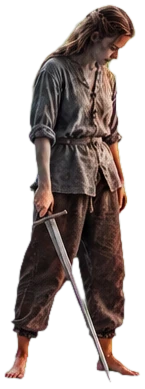
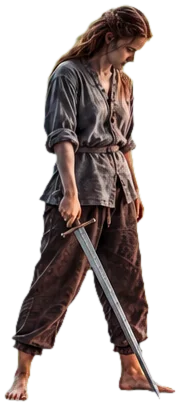
Polimento pós-auditoria

diff --git a/capitulo2.js b/capitulo2.js
@@ -22,7 +22,7 @@ const antes = () => window.AQV_ANTES || {};
 window.LIVRO_UI = {
   pt: { parte: 'Parte', prox: 'Próxima', fim: 'Encerrar o capítulo', voltar: '← Voltar', ouvir: 'Ouvir Laura', cena: '▶ Ver a cena', oque: 'O que Laura faz?', decida: 'Decida', decidir: 'Decidir', escolheu: 'Você escolheu:', resp: 'Responder a', silencio: 'ficar em silêncio', silencioR: 'Silêncio', momento: 'Momento de jogo',
     mg: { olhar: 'Olhar sem se mexer', duelo: 'Ler Simon', esconderijo: 'Prender o coração' },
-    dica: { olhar: 'Gideon está medindo e Laura não pode virar a cabeça. Ela tem quatro olhares antes de ele terminar.', duelo: 'Simon avisa com o corpo antes de cada golpe. Leia, desvie, e só toque quando ele errar.', esconderijo: 'O guarda vem pela aleia. O coração de Laura bate alto demais. Acompanhe cada batida para acalmá-lo, e prenda o fôlego quando a luz chegar.', preceT: 'Toque e segure. Solte quando quiser parar de rezar.', preceK: 'Segure o botão ou a barra de espaço. Solte quando quiser parar de rezar.' },
+    dica: { olhar: 'Gideon está medindo e Laura não pode virar a cabeça. Passe os olhos pela sala: ela tem quatro olhares antes de ele terminar.', duelo: 'Simon avisa com o corpo antes de cada golpe. Leia, desvie, e só toque quando ele errar.', esconderijo: 'O guarda vem pela aleia. O coração de Laura bate alto demais. Acompanhe cada batida para acalmá-lo, e prenda o fôlego quando a luz chegar.', preceT: 'Toque e segure. Solte quando quiser parar de rezar.', preceK: 'Segure o botão ou a barra de espaço. Solte quando quiser parar de rezar.' },
     olhares: (n) => (n === 1 ? 'resta 1 olhar' : `restam ${n} olhares`), deslize: 'Deslize para ver a sala inteira',
     coverEye: 'As Quatro Vontades · Livro I · Capítulo II', coverLede: 'Leia. Decida por Laura. E, no laranjal, lute.', coverGo: 'Entrar na Casa D’Orrose', coverCont: 'Continuar de onde parei', coverRestart: 'Começar do início', coverHint: 'Use fones. Avance com o botão, com a seta → ou deslizando para o lado.',
     confirm: 'Recomeçar o capítulo? Suas escolhas serão apagadas.', capN: 'Capítulo II', fimCap: 'Fim do Capítulo II', ficou: 'O que ficou atrás do peito', suas: 'O que você escolheu', reler: 'Reler e escolher diferente', mesmo: (p) => `${p}% dos leitores fizeram o mesmo`,
@@ -30,7 +30,7 @@ window.LIVRO_UI = {
   },
   en: { parte: 'Part', prox: 'Next', fim: 'Close the chapter', voltar: '← Back', ouvir: 'Listen to Laura', cena: '▶ Watch the scene', oque: 'What does Laura do?', decida: 'Decide', decidir: 'Decide', escolheu: 'You chose:', resp: 'Answer', silencio: 'stay silent', silencioR: 'Silence', momento: 'Moment of play',
     mg: { olhar: 'Look without moving', duelo: 'Read Simon', esconderijo: 'Hold your heart' },
-    dica: { olhar: 'Gideon is measuring and Laura can’t turn her head. She has four looks before he finishes.', duelo: 'Simon warns you with his body before every strike. Read it, dodge, and only touch him when he misses.', esconderijo: 'The guard is coming down the path. Laura’s heart is beating too loud. Keep time with every beat to calm it, and hold your breath when the light arrives.', preceT: 'Touch and hold. Let go when you want to stop praying.', preceK: 'Hold the button or the space bar. Let go when you want to stop praying.' },
+    dica: { olhar: 'Gideon is measuring and Laura can’t turn her head. Let your eyes roam the room: she has four looks before he finishes.', duelo: 'Simon warns you with his body before every strike. Read it, dodge, and only touch him when he misses.', esconderijo: 'The guard is coming down the path. Laura’s heart is beating too loud. Keep time with every beat to calm it, and hold your breath when the light arrives.', preceT: 'Touch and hold. Let go when you want to stop praying.', preceK: 'Hold the button or the space bar. Let go when you want to stop praying.' },
     olhares: (n) => (n === 1 ? '1 look left' : `${n} looks left`), deslize: 'Swipe to see the whole room',
     coverEye: 'The Four Wills · Book I · Chapter II', coverLede: 'Read. Decide for Laura. And in the orangery, fight.', coverGo: 'Enter House D’Orrose', coverCont: 'Continue where I left off', coverRestart: 'Start from the beginning', coverHint: 'Wear headphones. Move on with the button, the → key, or a swipe.',
     confirm: 'Restart the chapter? Your choices will be erased.', capN: 'Chapter II', fimCap: 'End of Chapter II', ficou: 'What stayed behind her ribs', suas: 'What you chose', reler: 'Read again and choose differently', mesmo: (p) => `${p}% of readers did the same`,
@@ -46,7 +46,7 @@ window.LIVRO = {
   tituloPag: 'Laura, Sob a Seda · As Quatro Vontades',
   tituloPagEn: 'Laura, Beneath the Silk · The Four Wills',
   capa: 'assets/images/capa.jpg',
-  proximo: { titulo: 'Capítulo III · O Cavaleiro', tituloEn: 'Chapter III · The Knight', url: 'https://marcelomartinsjorge.github.io/the4willschapter3V2/' },
+  proximo: { titulo: 'Fechar os olhos · Capítulo III', tituloEn: 'Close your eyes · Chapter III', url: 'https://marcelomartinsjorge.github.io/the4willschapter3V2/' },
 
   paginas: [
 
@@ -63,8 +63,8 @@ window.LIVRO = {
 
     { id: 'a02', zona: 'alfaiataria', fundo: { img: 'assets/images/alfaiate-olhar.jpg', kb: 'none', foco: '35% 40%', dim: .55, clima: 'poeira' }, pulso: .5, avancaDepois: true,
       texto: [
-        T('E pela milésima vez estou aqui, desconfortável, a respiração presa, enquanto o senhor alfaiate faz seu trabalho. Não posso virar a cabeça. Os olhos, posso.',
-          'And for the thousandth time I’m here, uncomfortable, holding my breath, while the tailor does his work. I can’t turn my head. My eyes, I can.'), // NOVO (2ª e 3ª frases)
+        T('E de novo estou aqui, desconfortável, a respiração presa, enquanto o senhor alfaiate faz seu trabalho. Não posso virar a cabeça. Os olhos, posso.',
+          'And here I am again, uncomfortable, holding my breath, while the tailor does his work. I can’t turn my head. My eyes, I can.'), // NOVO (2ª e 3ª frases)
       ],
       minijogo: 'olhar',
       olhar: {
@@ -86,7 +86,7 @@ window.LIVRO = {
           { id: 'vestido', flag: 'viuVestido', x: 93, y: 40, w: 11, h: 46, rotulo: T('O manequim', 'The dress form'),
             texto: [T('No manequim, o vestido com os adornos de esmeralda. Gideon cortou o tecido nas minhas medidas da semana passada. O vestido já tem a minha forma, e eu ainda nem entrei nele.', 'On the dress form, the gown with the emerald trim. Gideon cut it to last week’s measurements. The gown already has my shape, and I haven’t even stepped into it.')] }, // NOVO
           { id: 'mesa', flag: 'registro', x: 76, y: 80, w: 16, h: 16, rotulo: T('A mesa de Gideon', 'Gideon’s table'),
-            texto: [T('Na mesa de Gideon, entre as sedas, uma carta aberta com o selo do Registro do Torneio. Encomenda de mantos para os arautos. Embaixo do selo, o nome do oficial que assina as inscrições. Leio duas vezes.', 'On Gideon’s table, among the silks, an open letter with the seal of the Tournament Registry. An order of cloaks for the heralds. Under the seal, the name of the officer who signs the entries. I read it twice.')] }, // NOVO (o oficial que ela vai subornar)
+            texto: [T('Na mesa de Gideon, entre as sedas, uma carta aberta com o selo do Registro do Torneio. Encomenda de mantos para os arautos, assinada pelo oficial das inscrições: o homem que eu já sei que vou procurar. Os mantos ficam prontos em nove dias, e ele vem buscá-los aqui, pessoalmente.', 'On Gideon’s table, among the silks, an open letter with the seal of the Tournament Registry. An order of cloaks for the heralds, signed by the officer of the entries: the man I already know I’ll have to find. The cloaks will be ready in nine days, and he’s coming here to collect them himself.')] }, // NOVO (Laura já sabe quem é o oficial; a carta dá a ela o dia e o lugar)
         ],
       },
       depois: [] },
@@ -168,11 +168,17 @@ window.LIVRO = {
           ? T('Ela não ajeita meu cabelo antes de sair, como faz sempre. Vai direto para a porta.', 'She doesn’t tuck my hair back before leaving, the way she always does. She goes straight to the door.')
           : T('Ela ajeita uma mecha do meu cabelo atrás da orelha, o mesmo gesto de quando eu era pequena, e vai até a porta.', 'She tucks a strand of my hair behind my ear, the same gesture as when I was small, and goes to the door.')), // NOVO
       ],
-      quieto: { id: 'outro', espera: 4, eixo: 'mostra', flag: 'perguntouOutro',
-        fala: T('Mãe. E se outro vencer?', 'Mother. What if someone else wins?'),
-        resposta: T('Então você se casa com outro, minha filha. É assim que Redom continua de pé.', 'Then you marry someone else, my daughter. That’s how Redom stays standing.'),
-        depois: [(st) => (st.f.viuPorta ? T('A dobradiça de baixo range quando ela sai, como eu sabia que ia ranger.', 'The lower hinge creaks as she leaves, the way I knew it would.') : T('A porta fecha atrás dela.', 'The door closes behind her.'))],
-        seCalar: [(st) => (st.f.viuPorta ? T('A dobradiça de baixo range quando ela sai, como eu sabia que ia ranger.', 'The lower hinge creaks as she leaves, the way I knew it would.') : T('A porta fecha atrás dela.', 'The door closes behind her.'))] } }, // NOVO
+      escolha: { id: 'outro', pergunta: T('Ela está quase na porta.', 'She’s almost at the door.'), opcoes: [
+        { id: 'perguntar', eixo: 'mostra', flag: 'perguntouOutro', txt: T('Perguntar: “E se outro vencer?”', 'Ask: “What if someone else wins?”'),
+          resultado: [
+            T('— Mãe. E se outro vencer?', '— Mother. What if someone else wins?'),
+            T('Ela para com a mão na maçaneta.', 'She stops with her hand on the latch.'),
+            T('— Então você se casa com outro, minha filha. É assim que Redom continua de pé.', '— Then you marry someone else, my daughter. That’s how Redom stays standing.'),
+            (st) => (st.f.viuPorta ? T('A dobradiça de baixo range quando ela sai, como eu sabia que ia ranger.', 'The lower hinge creaks as she leaves, the way I knew it would.') : T('A porta fecha atrás dela.', 'The door closes behind her.')),
+          ] },
+        { id: 'cala', txt: T('Deixar que ela vá', 'Let her go'),
+          resultado: [(st) => (st.f.viuPorta ? T('A dobradiça de baixo range quando ela sai, como eu sabia que ia ranger.', 'The lower hinge creaks as she leaves, the way I knew it would.') : T('A porta fecha atrás dela.', 'The door closes behind her.'))] },
+      ] } }, // NOVO (a pergunta agora é escolha visível)
 
     // ===================================================== II · O ORATÓRIO
     { id: 'parte-II', parte: 'II', zona: 'oratorio', fundo: { img: 'assets/images/oratorio-estatuas.jpg', kb: 'in', dim: .6, foco: '50% 20%', retrato: true, clima: 'velas' },
@@ -266,6 +272,8 @@ window.LIVRO = {
           resultado: [
             (st) => (st.f.sangue
               ? [T('Continuo ajoelhada. Ela pega minhas mãos e me entrega um lenço.', 'I stay on my knees. She takes my hands and presses a handkerchief into them.'), T('— Uma Mãe-Rainha não pode ter as mãos cortadas, Laura.', '— A Mother-Queen can’t have cut-up hands, Laura.')]
+              : (st.f.preceN || 0) >= 3
+                ? [T('Continuo ajoelhada. Ela pega minhas mãos e vira as palmas para a luz da janela. Passa o polegar pelas meias-luas que as unhas deixaram, uma por uma, e depois pelos calos.', 'I stay on my knees. She takes my hands and turns the palms to the window light. She runs her thumb over the half-moons my nails left, one by one, and then over the calluses.'), T('— Você reza como quem briga, Laura. Uma Mãe-Rainha não pode ter mãos assim.', '— You pray like you’re fighting, Laura. A Mother-Queen can’t have hands like these.'), T('Ela tira um lenço da manga e fecha meus dedos sobre ele.', 'She takes a handkerchief from her sleeve and closes my fingers around it.')]
               : [T('Continuo ajoelhada. Ela pega minhas mãos e vira as palmas para a luz da janela, devagar. Passa o polegar pelos calos, um por um.', 'I stay on my knees. She takes my hands and turns the palms to the window light, slowly. She runs her thumb over the calluses, one by one.'), T('— Uma Mãe-Rainha não pode ter mãos assim, Laura.', '— A Mother-Queen can’t have hands like these, Laura.'), T('Ela tira um lenço da manga e fecha meus dedos sobre ele.', 'She takes a handkerchief from her sleeve and closes my fingers around it.')]),
           ] }, // canon + NOVO (variação sem sangue)
         { id: 'levantar', eixo: 'mostra', flag: 'levantou', pulso: 4, txt: T('Levantar também', 'Stand up too'),
@@ -274,12 +282,16 @@ window.LIVRO = {
             T('Levanto antes que ela chegue. De pé, ficamos da mesma altura, perto o bastante para eu ver a luz da janela nos lábios dela. Ela para. Nenhuma das duas se mexe.', 'I stand before she reaches me. On our feet we’re the same height, close enough for me to see the window light on her lips. She stops. Neither of us moves.'),
             (st) => (st.f.sangue
               ? [T('Então ela pega minhas mãos e me entrega um lenço.', 'Then she takes my hands and presses a handkerchief into them.'), T('— Uma Mãe-Rainha não pode ter as mãos cortadas, Laura.', '— A Mother-Queen can’t have cut-up hands, Laura.')]
+              : (st.f.preceN || 0) >= 3
+                ? [T('Então ela pega minhas mãos e olha as meias-luas vermelhas que as unhas deixaram nas palmas.', 'Then she takes my hands and looks at the red half-moons my nails left in the palms.'), T('— Você reza como quem briga, Laura.', '— You pray like you’re fighting, Laura.'), T('Ela fecha meus dedos sobre um lenço.', 'She closes my fingers around a handkerchief.')]
               : [T('Então ela pega minhas mãos, passa o polegar pelos calos, um por um, e fecha meus dedos sobre um lenço.', 'Then she takes my hands, runs her thumb over the calluses, one by one, and closes my fingers around a handkerchief.'), T('— Uma Mãe-Rainha não pode ter mãos assim, Laura.', '— A Mother-Queen can’t have hands like these, Laura.')]),
           ] }, // NOVO
         { id: 'esconder', eixo: 'esconde', txt: T('Esconder as mãos na saia', 'Hide my hands in my skirt'),
           fundo: { video: 'assets/video/oratorio-justine-lenco-chao.mp4', img: 'assets/images/oratorio-de-pe.jpg', kb: 'none', foco: '50% 50%', dim: .45, lado: 'dir', clima: 'velas' },
           resultado: [
-            T('Escondo as mãos nas dobras da saia. Ela para a um passo de mim, olha para a saia, depois para o meu rosto.', 'I hide my hands in the folds of my skirt. She stops a step away, looks at the skirt, then at my face.'),
+            (st) => (st.f.sangue
+              ? T('Escondo as mãos nas dobras da saia. O sangue mancha o tecido antes que eu consiga fechar os punhos. Ela para a um passo de mim, olha para a mancha, depois para o meu rosto.', 'I hide my hands in the folds of my skirt. The blood stains the cloth before I can close my fists. She stops a step away, looks at the stain, then at my face.')
+              : T('Escondo as mãos nas dobras da saia. Ela para a um passo de mim, olha para a saia, depois para o meu rosto.', 'I hide my hands in the folds of my skirt. She stops a step away, looks at the skirt, then at my face.')),
             T('— Eu sei o que tem aí, Laura.', '— I know what’s in there, Laura.'),
             T('Ela tira um lenço da manga, deixa no chão, ao lado do meu joelho, e vai para a porta sem tocar em mim.', 'She takes a handkerchief from her sleeve, leaves it on the floor beside my knee, and goes to the door without touching me.'),
           ] }, // NOVO
@@ -319,7 +331,7 @@ window.LIVRO = {
       minijogo: 'esconderijo', esconderijo: { video: 'assets/video/esconderijo.mp4', img: 'assets/images/esconderijo.jpg' },
       depois: (st) => (st.f.visto
         ? [ // perdeu o minijogo: o coração vence, e eles correm (Dolores vai saber)
-          T('O coração bate tão alto que tenho certeza de que ele escuta. Simon não aguenta. Levanta e corre, e me arrasta junto.', 'My heart beats so loud I’m sure he can hear it. Simon can’t take it. He gets up and runs, and drags me with him.'),
+          T('O coração bate tão alto que tenho certeza de que ele escuta. Não aguento. Levanto e corro, e puxo Simon comigo.', 'My heart beats so loud I’m sure he can hear it. I can’t hold it. I get up and run, and pull Simon with me.'),
           T('O cascalho estala debaixo dos nossos pés, alto demais.', 'The gravel cracks under our feet, far too loud.'),
           T('— Quem está aí? — a voz do guarda vem atrás de nós, e a luz da tocha varre o muro um instante depois de passarmos.', '— Who’s there? — the guard’s voice comes behind us, and the torchlight sweeps the wall a moment after we pass.'),
           T('Entramos no laranjal sem ar. Simon ri baixinho, nervoso.', 'We reach the orangery out of breath. Simon laughs under his breath, nervous.'),
@@ -335,14 +347,14 @@ window.LIVRO = {
       texto: [
         T('Poeira flutua clara na primeira luz que entra pelos janelões.', 'Dust drifts pale in the first light coming through the tall windows.'),
         se((st) => st.escolhas.lenco === 'guardar', T('Antes de começar, enrolo o lenço de Justine no cabo da espada, por cima da bolha que abriu ontem.', 'Before we start, I wrap Justine’s handkerchief around the grip, over the blister that opened yesterday.')), // NOVO
+        se((st) => st.escolhas.lenco === 'guardar', T('Simon aponta o cabo da minha espada com o queixo.', 'Simon nods at my sword’s grip.')),
+        se((st) => st.escolhas.lenco === 'guardar', T('— Isso tem um J bordado. É da Justine?', '— That has a J stitched on it. Is it Justine’s?')),
+        se((st) => st.escolhas.lenco === 'guardar', T('Sinto o rosto esquentar e não respondo.', 'I feel my face go hot, and I don’t answer.')),
         (st) => (st.f.arsenalTrancado
           ? T('— Mamãe brigou com você, Laura? Ela trancou o arsenal inteiro — ele pergunta enquanto aquecemos, ainda trocando golpes de propósito, devagar.', '— Did mother fight with you, Laura? She locked the whole armory — he asks while we warm up, still trading slow blows on purpose.')
           : T('— Mamãe brigou com você, Laura? — ele pergunta enquanto aquecemos, ainda trocando golpes de propósito, devagar.', '— Did mother fight with you, Laura? — he asks while we warm up, still trading slow blows on purpose.')),
         T('— Como ela descobriu?', '— How did she find out?'),
         T('— Espada sem fio ainda deixa marca, irmã. E você não tem sido branda comigo.', '— A blunt sword still leaves a mark, sister. And you haven’t been gentle with me.'),
-        se((st) => st.escolhas.lenco === 'guardar', T('Ele aponta o cabo da minha espada com o queixo.', 'He nods at my sword’s grip.')),
-        se((st) => st.escolhas.lenco === 'guardar', T('— Isso tem um J bordado. É da Justine?', '— That has a J stitched on it. Is it Justine’s?')),
-        se((st) => st.escolhas.lenco === 'guardar', T('Sinto o rosto esquentar.', 'I feel my face go hot.')),
         T('— É o que você quer? — Rio no meio da frase, sem conseguir evitar. — Ela disse que você, como homem bem alimentado, vai ficar mais forte a cada dia.', '— Is that what you want? — I laugh in the middle of the sentence, unable to help it. — She said that you, being a well-fed man, will get stronger every day.'),
         T('— Está me provocando? — Ele acelera o ritmo dos golpes.', '— Are you provoking me? — He speeds up his strikes.'),
       ] },
@@ -430,6 +442,11 @@ window.LIVRO = {
       texto: [
         T('Volto para o quarto antes do primeiro sino. A cadeira está virada para a janela, do jeito que sempre fica.', 'I’m back in my room before the first bell. The chair is turned toward the window, the way it always is.'),
         se((st) => st.f.brancarda, T('Ponho a brancarda dentro do livro de etiqueta, entre duas páginas que nunca vou reler.', 'I press the whitebloom inside the etiquette book, between two pages I’ll never read again.')),
+        (st) => (st.escolhas.lenco === 'guardar'
+          ? T('Tiro da manga o lenço de Justine. A bolha abriu por baixo dele: no canto, ao lado do J, uma mancha vermelha.', 'I take Justine’s handkerchief out of my sleeve. The blister opened under it: in the corner, beside the J, a red stain.')
+          : (st.duelo && st.duelo.maos)
+            ? T('A bolha da palma abriu de novo. Lavo a mão na bacia, e a água fica rosada.', 'The blister on my palm has opened again. I wash my hand in the basin, and the water turns pink.')
+            : null), // NOVO (o lenço protegeu a mão no duelo; sem ele, a bolha abre)
         (st) => {
           const n = st.duelo ? st.duelo.sofridos || 0 : 0;
           if (n >= 2) return [
@@ -442,7 +459,9 @@ window.LIVRO = {
           ];
           return null;
         },
-        T('Conto nos dedos os dias até o Torneio. Trinta. Conto de novo e dá o mesmo.', 'I count the days to the Tournament on my fingers. Thirty. I count again and get the same.'),
+        (st) => (st.f.registro
+          ? [T('Conto nos dedos os dias até o oficial do Registro vir buscar os mantos de Gideon. Nove.', 'I count on my fingers the days until the Registry officer comes for Gideon’s cloaks. Nine.'), T('Depois, os dias até o Torneio. Trinta. Conto de novo e dá o mesmo.', 'Then the days to the Tournament. Thirty. I count again and get the same.')]
+          : T('Conto nos dedos os dias até o Torneio. Trinta. Conto de novo e dá o mesmo.', 'I count the days to the Tournament on my fingers. Thirty. I count again and get the same.')),
         (st) => (st.peso >= 3 || (st.duelo && st.duelo.sofridos >= 2)
           ? T('Deito de lado, depois do outro, depois de costas. Quando o sino bate longe, meus olhos já estão fechando.', 'I lie on one side, then the other, then on my back. When the bell rings far away, my eyes are already closing.')
           : st.peso === 0
@@ -467,9 +486,9 @@ window.LIVRO = {
   // ---------------------------------------------------------------- tela final
   resumo: (st, lang) => {
     const pt = lang !== 'en', L = (a, b) => (pt ? a : b);
-    const frase = st.peso <= 0 ? L('Laura não carrega nenhuma mentira para a cama hoje.', 'Laura carries no lies to bed tonight.')
-      : st.peso <= 2 ? L('Laura mentiu pouco, e sentiu cada vez no peito.', 'Laura lied a little, and felt each one in her chest.')
-        : L('Laura deita com o peso de cada mentira do dia atrás do peito.', 'Laura lies down with the weight of every lie of the day behind her ribs.');
+    const frase = st.peso <= 0 ? L('Laura dorme antes do sino.', 'Laura is asleep before the bell.')
+      : st.peso <= 2 ? L('O peito de Laura demora a soltar.', 'Laura’s chest is slow to loosen.')
+        : L('Laura vira na cama até o sino.', 'Laura tosses in bed until the bell.');
     const notas = [];
     const pr = st.escolhas.promessa;
     notas.push(pr === 'recusar' ? L('Dolores trancou o arsenal e guarda a chave.', 'Dolores locked the armory and keeps the key.') : pr === 'calar' ? L('Dolores tomou o silêncio da filha por palavra.', 'Dolores took her daughter’s silence as her word.') : L('Dolores acredita na promessa da filha.', 'Dolores believes her daughter’s promise.'));

diff --git a/esconderijo.js b/esconderijo.js
@@ -1,5 +1,5 @@
 /* As Quatro Vontades · Capítulo II · minijogo "Prender o coração" (o esconderijo atrás da estátua)
-   O vídeo roda em loop, com o som dele. O coração de Laura bate alto: o leitor toca no compasso de cada batida
+   O vídeo roda uma vez só, em câmera lenta e mudo (o jogo dura o vídeo). O coração de Laura bate alto: o leitor toca no compasso de cada batida
    para acalmá-lo. Quando a luz da tocha chega à estátua, segura o fôlego (segura o mesmo botão) até ela passar.
    Se o coração passar de 150, Simon não aguenta e eles correm. Se a tocha passar, eles passam impunes.
    Teclado: barra de espaço (tocar e segurar). Toque: o coração. */
@@ -7,36 +7,33 @@
   const TX = {
     pt: {
       titulo: 'Prender o coração', sub: 'Atrás da estátua da Juíza',
-      r1: ['O anel se fecha sobre o coração', 'toque no instante da batida'],
-      r2: ['Batida certa', 'o coração desacelera'],
-      r3: ['Batida perdida ou fora de hora', 'o coração acelera'],
-      r4: ['A luz chega à estátua', 'segure até ela passar'],
-      regra: 'Se o coração passar de 150, Simon não aguenta.', comecar: 'Encostar na pedra', teclas: 'Barra de espaço ou toque no coração. Para segurar, mantenha pressionado.',
-      dica: 'Toque quando o anel encontrar o coração.', luz: 'A luz chega à estátua. Segure!', solta: 'Pode soltar.',
-      soltouCedo: 'Simon solta o ar alto demais.', naoSegurou: 'A luz passa por nós e eu esqueço de respirar.',
+      r1: ['Toque quando o anel encontrar o coração', 'cada batida no tempo acalma'],
+      r4: ['Quando a luz da tocha chegar', 'segure até ela passar'],
+      regra: 'Tenho que ficar calma. Meu coração não pode disparar.', comecar: 'Encostar na pedra', teclas: 'Barra de espaço ou toque no coração. Para segurar, mantenha pressionado.',
+      dica: 'Toque quando o anel encontrar o coração.', luz: 'A luz chega. Segure!', solta: 'Pode soltar.',
+      soltouCedo: 'Solto o ar alto demais.', naoSegurou: 'A luz passa por nós e eu esqueço de respirar.',
       firme: 'firme', quase: 'quase', fora: 'fora de hora', perdeu: 'perdida',
-      tocha: 'a tocha', bpm: 'batidas por minuto', venceu: 'A tocha passou.', descobertos: 'Simon não aguenta.',
+      tocha: 'a tocha', bpm: 'batidas por minuto', venceu: 'A tocha passou.', descobertos: 'Não aguento.',
     },
     en: {
       titulo: 'Hold your heart', sub: 'Behind the statue of the Judge',
-      r1: ['The ring closes over the heart', 'tap at the moment of the beat'],
-      r2: ['A beat on time', 'the heart slows down'],
-      r3: ['A missed or mistimed beat', 'the heart speeds up'],
-      r4: ['The light reaches the statue', 'hold until it passes'],
-      regra: 'If the heart goes past 150, Simon can’t take it.', comecar: 'Press against the stone', teclas: 'Space bar or tap the heart. To hold, keep it pressed.',
-      dica: 'Tap when the ring meets the heart.', luz: 'The light reaches the statue. Hold!', solta: 'You can let go.',
-      soltouCedo: 'Simon lets his breath out too loud.', naoSegurou: 'The light passes over us and I forget to breathe.',
+      r1: ['Tap when the ring meets the heart', 'every beat on time calms it'],
+      r4: ['When the torchlight comes', 'hold until it passes'],
+      regra: 'I have to stay calm. My heart can’t start racing.', comecar: 'Press against the stone', teclas: 'Space bar or tap the heart. To hold, keep it pressed.',
+      dica: 'Tap when the ring meets the heart.', luz: 'The light is here. Hold!', solta: 'You can let go.',
+      soltouCedo: 'I let my breath out too loud.', naoSegurou: 'The light passes over us and I forget to breathe.',
       firme: 'steady', quase: 'almost', fora: 'off beat', perdeu: 'missed',
-      tocha: 'the torch', bpm: 'beats per minute', venceu: 'The torch has passed.', descobertos: 'Simon can’t take it.',
+      tocha: 'the torch', bpm: 'beats per minute', venceu: 'The torch has passed.', descobertos: 'I can’t hold it.',
     },
   };
-  const DUR = 34, LEAD = 1.0, LIMITE = 150, EVENTOS = [9.5, 19, 27.5], SEGURA = 2.4, JANELA = 1.2;
+  // uma passada só do vídeo, em câmera lenta: o jogo dura o vídeo inteiro, e a luz chega quando a tocha aparece na tela
+const DUR = 22, LEAD = 1.0, LIMITE = 150, VID_LUZ = [3.3, 6.45], SEGURA = 2.4, JANELA = 1.2;
 
   function start(o, opts) {
     return new Promise((resolve) => {
       const T = TX[opts.lang] || TX.pt, A = opts.A;
       o.innerHTML = `
-        <video class="ez-vid" loop playsinline preload="auto" poster="${opts.img || ''}"></video>
+        <video class="ez-vid" playsinline muted preload="auto" poster="${opts.img || ''}"></video>
         <div class="ez-veu"></div>
         <div class="ez-top"><span>${T.tocha}</span><div class="ez-trilha"><i class="ez-fogo"></i></div></div>
         <div class="ez-centro">
@@ -49,7 +46,7 @@
         </div>
         <div class="ez-tela ez-intro">
           <h2>${T.titulo}</h2><p class="ez-subt">${T.sub}</p>
-          <ul>${[T.r1, T.r2, T.r3, T.r4].map(([a, b]) => `<li><b>${a}</b><span>${b}</span></li>`).join('')}</ul>
+          <ul>${[T.r1, T.r4].map(([a, b]) => `<li><b>${a}</b><span>${b}</span></li>`).join('')}</ul>
           <p class="ez-regra">${T.regra}</p>
           <button class="cta ez-go">${T.comecar}</button>
           <p class="ez-teclas">${T.teclas}</p>
@@ -65,7 +62,9 @@
       const S = { firmes: 0, quase: 0, falhas: 0, fora: 0, holdsOk: 0, holdsFail: 0, bpmMax: 0, bpmFinal: 0, venceu: false };
       let bpm = 88 + Math.min(opts.peso || 0, 4) * 5, t0 = 0, rodando = false, acabou = false, apertado = false, raf = 0;
       let proxBatida = 0; const batidas = [];
-      const eventos = EVENTOS.map((t) => ({ t, estado: 'espera', ini: 0 }));
+      let vidDur = 8.9; const eventos = VID_LUZ.map((v) => ({ v, t: v / vidDur * DUR, estado: 'espera', ini: 0 }));
+      const ajustaVideo = () => { if (vid.duration && isFinite(vid.duration)) { vidDur = vid.duration; eventos.forEach((e) => { e.t = e.v / vidDur * DUR; }); } try { vid.playbackRate = Math.max(.25, vidDur / DUR); } catch (e) {} };
+      vid.addEventListener('loadedmetadata', ajustaVideo);
       const agora = () => performance.now() / 1000 - t0;
       const aviso = (t, ms = 1100, cls = '') => { msg.textContent = t; msg.className = 'ez-msg on ' + cls; clearTimeout(aviso.id); aviso.id = setTimeout(() => (msg.className = 'ez-msg'), ms); };
       const batidaSom = () => {
@@ -133,7 +132,7 @@
         // a luz na estátua: segurar
         for (const e of eventos) {
           if (e.estado === 'espera' && t >= e.t) {
-            if (!o.classList.contains('ez-luz')) { o.classList.add('ez-luz'); aviso(T.luz, 1800, 'luz'); }
+            if (!o.classList.contains('ez-luz')) { o.classList.add('ez-luz'); aviso(T.luz, 1800, 'luz'); if (A && A.sfx) A.sfx('passos-guarda', .9, () => {}); }
             if (apertado) { e.estado = 'segurando'; e.ini = t; }
             else if (t > e.t + JANELA) { e.estado = 'falhou'; S.holdsFail++; muda(14); o.classList.remove('ez-luz'); aviso(T.naoSegurou, 1600, 'mal'); }
           } else if (e.estado === 'segurando') {
@@ -155,8 +154,8 @@
       window.__ESC = { batidas, eventos, agora: () => agora(), bpm: () => bpm, rodando: () => rodando }; // para testes automáticos
       $('.ez-go').onclick = () => {
         $('.ez-intro').remove();
-        if (A && A.duck) A.duck(true);
-        vid.play().catch(() => {});
+        // o vídeo em câmera lenta fica mudo; o som é o do jardim, o coração e as botas do guarda
+        ajustaVideo(); vid.play().catch(() => {});
         t0 = performance.now() / 1000; proxBatida = 1.4; rodando = true; S.bpmMax = bpm;
         aviso(T.dica, 3200);
         raf = requestAnimationFrame(passo);

diff --git a/duelo.js b/duelo.js
@@ -27,10 +27,10 @@ const TX = {
     finta: 'Finta',
     botoes: ['Recuar', 'Inclinar', 'Aparar', 'Tocar'],
     fole: 'Fôlego', guarda: 'Guarda',
-    congela: 'A costela dele, aberta.', tocar: 'Tocar a costela', baixar: 'Deixar Simon ganhar',
+    congela: 'A costela dele, aberta.', tocar: 'Tocar a costela', baixar: 'Baixar a espada',
     venceu: 'Você venceu Simon.', marcas: 'Você venceu Simon, mas ele te acertou.', deixou: 'Você deixou Simon ganhar.', perdeu: 'Simon venceu.',
     seguir: 'Continuar', comecar: 'Em guarda', denovo: 'Tentar de novo', perdeuSub: 'Não pode ser assim. Falta um mês.',
-    nervo: 'O coração não para quieto hoje. Cada abertura vai durar menos.',
+    nervo: 'O coração não para quieto hoje. As mãos chegam um instante atrasadas.',
     teclado: 'Teclado: setas ou 1 a 4.',
   },
   en: {
@@ -50,10 +50,10 @@ const TX = {
     finta: 'Feint',
     botoes: ['Step back', 'Lean', 'Parry', 'Touch'],
     fole: 'Breath', guarda: 'Guard',
-    congela: 'His ribs, wide open.', tocar: 'Touch his ribs', baixar: 'Let Simon win',
+    congela: 'His ribs, wide open.', tocar: 'Touch his ribs', baixar: 'Lower the sword',
     venceu: 'You beat Simon.', marcas: 'You beat Simon, but he landed a hit.', deixou: 'You let Simon win.', perdeu: 'Simon won.',
     seguir: 'Continue', comecar: 'En garde', denovo: 'Try again', perdeuSub: 'It can’t go like this. A month left.',
-    nervo: 'My heart won’t settle today. Every opening will last less.',
+    nervo: 'My heart won’t settle today. My hands arrive a moment late.',
     teclado: 'Keyboard: arrows or 1 to 4.',
   },
 };
@@ -176,7 +176,7 @@ function desenhaFigura(cx, p, o) {
 // ------------------------------------------------------------------ Laura e Simon em imagem (assets/images/duelo)
 // Cada pose do jogo aponta para uma imagem recortada. meta: largura, altura, linha dos pés (base) e centro dos pés (ax).
 // Se uma imagem não carregar, aquele lutador volta a ser desenhado como antes.
-const SPR_META = {"laura":{"guarda":{"w":346,"h":381,"base":376,"ax":116.0,"alt":372},"recuar":{"w":308,"h":376,"base":371,"ax":141.2,"alt":367},"inclinar":{"w":283,"h":357,"base":352,"ax":141.5,"alt":348},"aparar":{"w":271,"h":436,"base":431,"ax":128.5,"alt":431},"apara-baixo":{"w":249,"h":358,"base":353,"ax":135.2,"alt":349},"tocar":{"w":531,"h":374,"base":369,"ax":138.0,"alt":365},"atingida":{"w":293,"h":363,"base":358,"ax":129.0,"alt":354},"cansada":{"w":157,"h":395,"base":390,"ax":81.9,"alt":386},"baixa":{"w":145,"h":389,"base":384,"ax":75.7,"alt":380}},"simon":{"guarda":{"w":295,"h":338,"base":333,"ax":180.5,"alt":329},"aviso-alto":{"w":266,"h":399,"base":394,"ax":142.1,"alt":390},"aviso-estocada":{"w":287,"h":324,"base":319,"ax":121.8,"alt":315},"aviso-baixo":{"w":286,"h":259,"base":254,"ax":149.2,"alt":250},"golpe-alto":{"w":233,"h":409,"base":404,"ax":85.7,"alt":400},"golpe-estocada":{"w":381,"h":295,"base":290,"ax":187.0,"alt":286},"golpe-baixo":{"w":292,"h":237,"base":232,"ax":104.0,"alt":228},"desequilibrado":{"w":314,"h":279,"base":274,"ax":121.7,"alt":270},"atingido":{"w":165,"h":312,"base":307,"ax":95.5,"alt":303},"cansado":{"w":155,"h":366,"base":361,"ax":74.1,"alt":357}}};
+const SPR_META = {"laura":{"guarda":{"w":352,"h":397,"base":392,"ax":120.5,"alt":388},"recuar":{"w":332,"h":395,"base":390,"ax":149.5,"alt":385},"inclinar":{"w":296,"h":375,"base":370,"ax":147.5,"alt":366},"aparar":{"w":289,"h":473,"base":468,"ax":144.0,"alt":462},"apara-baixo":{"w":298,"h":383,"base":377,"ax":132.0,"alt":373},"tocar":{"w":441,"h":386,"base":380,"ax":141.5,"alt":375},"atingida":{"w":299,"h":384,"base":378,"ax":149.5,"alt":373},"baixa":{"w":181,"h":406,"base":400,"ax":89.5,"alt":395},"cansada":{"w":181,"h":406,"base":400,"ax":89.5,"alt":395}},"simon":{"guarda":{"w":295,"h":338,"base":333,"ax":180.5,"alt":329},"aviso-alto":{"w":266,"h":399,"base":394,"ax":142.1,"alt":390},"aviso-estocada":{"w":287,"h":324,"base":319,"ax":121.8,"alt":315},"aviso-baixo":{"w":286,"h":259,"base":254,"ax":149.2,"alt":250},"golpe-alto":{"w":233,"h":409,"base":404,"ax":85.7,"alt":400},"golpe-estocada":{"w":381,"h":295,"base":290,"ax":187.0,"alt":286},"golpe-baixo":{"w":292,"h":237,"base":232,"ax":104.0,"alt":228},"desequilibrado":{"w":314,"h":279,"base":274,"ax":121.7,"alt":270},"atingido":{"w":165,"h":312,"base":307,"ax":95.5,"alt":303},"cansado":{"w":155,"h":366,"base":361,"ax":74.1,"alt":357}}};
 const SPR_MAPA = {
   laura: { guarda: 'guarda', respira: 'guarda', recuar: 'recuar', inclinar: 'inclinar', aparar: 'aparar', aparaBaixo: 'apara-baixo', tocar: 'tocar', atingido: 'atingida', cansado: 'cansada', baixa: 'baixa' },
   simon: { guarda: 'guarda', respira: 'guarda', tellAlto: 'aviso-alto', tellEstocada: 'aviso-estocada', tellBaixo: 'aviso-baixo', golpeAlto: 'golpe-alto', golpeEstocada: 'golpe-estocada', golpeBaixo: 'golpe-baixo', desequilibrio: 'desequilibrado', atingido: 'atingido', cansado: 'cansado' },

diff --git a/livro.js b/livro.js
@@ -131,8 +131,10 @@ const Coracao = (() => {
 })();
 function mudaPeso(d) {
   if (!d) return; st.peso = Math.max(0, st.peso + d);
-  if (d < 0) { A.tone(392, 1.2, 'sine', .03); A.tone(523, 1.4, 'sine', .02, .1); return; }
-  A.peso(); document.body.classList.remove('pesa'); void document.body.offsetWidth; document.body.classList.add('pesa');
+  // o peso não tem som de jogo: mentir é uma batida fora do compasso; aliviar é um fôlego solto
+  if (d < 0) { if (A.ctx && A.on) { A.hiss(1.1, 520, .6, .05, 0, 'lowpass'); A.hiss(.9, 300, .5, .03, .35, 'lowpass'); } return; }
+  if (A.ctx && A.on) { A.batida(1); setTimeout(() => A.batida(.85), 170); }
+  document.body.classList.remove('bate'); void document.body.offsetWidth; document.body.classList.add('bate');
 }
 
 // ---------------------------------------------------------------- fundos
@@ -482,6 +484,7 @@ const MG = {
         b.innerHTML = `<i></i><span>${esc(tr(pt.rotulo))}</span>`;
         b.onclick = (e) => {
           e.stopPropagation(); if (acabou || reg.vistos.includes(pt.id)) { if (reg.vistos.includes(pt.id)) mostra(pt.texto); return; }
+          if (IS_TOUCH && !b.classList.contains('mira')) { caixa.querySelectorAll('.ex-pt.mira').forEach((x) => x.classList.remove('mira')); b.classList.add('mira'); return; }
           reg.vistos.push(pt.id); if (pt.flag) st.f[pt.flag] = true; if (pt.rota) (st.f.rotas = st.f.rotas || []).push(pt.rota);
           b.classList.add('visto'); salvar();
           foco.style.setProperty('--fx', pt.x + '%'); foco.style.setProperty('--fy', pt.y + '%'); foco.classList.add('on');
@@ -650,7 +653,8 @@ function guardaEstado() {
 function pontosDuelo(d) {
   if (!d) return 0;
   const p = 2500 * (d.leituras || 0) + 3000 * (d.toques || 0) + 2000 * (d.fintasLidas || 0) + 1500 * (d.maxCombo || 0)
-    - 2500 * (d.sofridos || 0) - 800 * (d.aparos || 0) - 6000 * (d.tentativas || 0) + (d.resultado === 'limpo' ? 10000 : 0);
+    - 2500 * (d.sofridos || 0) - 800 * (d.aparos || 0) - 6000 * (d.tentativas || 0) + (d.resultado === 'limpo' ? 10000 : 0)
+    + (d.resultado === 'deixou' ? 3000 + (d.sofridos ? 0 : 10000) : 0); // baixar a espada: ela leu a abertura e escolheu não usar
   return Math.max(2000, Math.round(p));
 }
 function pontosEsconderijo(e) {
@@ -746,6 +750,9 @@ document.querySelectorAll('.lang').forEach((b) => b.addEventListener('click', ()
 // ---------------------------------------------------------------- capa / início
 $('#cvTitle').textContent = L.titulo; $('#cover').style.setProperty('--capa', `url("${L.capa}")`);
 $('#rsProx').href = L.proximo.url;
+$('#rsProx').addEventListener('click', (e) => { // fechar os olhos: a tela escurece antes do sonho
+  e.preventDefault(); const url = $('#rsProx').href; document.body.classList.add('dorme'); setTimeout(() => { location.href = url; }, 1600);
+});
 const salvo = carregar();
 if (salvo && salvo.i > 0) $('#cvCont').hidden = false;
 aplicaIdioma();

diff --git a/content/cap02/tema.css b/content/cap02/tema.css
@@ -190,3 +190,13 @@ body.na-capa #pulsoDot { display: none; }
 .rs-jornada b { font-family: var(--serif-d); font-size: 24px; color: #fff; font-weight: 500; }
 .rs-jornada em { color: rgba(239,230,216,.65); font-size: 15px; }
 .rs-sem { font-style: italic; color: rgba(239,230,216,.6); font-size: 15px; }
+
+/* v11 · o olhar: os pontos quase não aparecem; o olho os acha passando por perto */
+#mg.olhar .ex-pt i { opacity: .16; animation: exBrilho 4.8s ease-in-out infinite; transition: opacity .3s; }
+#mg.olhar .ex-pt:hover i, #mg.olhar .ex-pt:focus-visible i, #mg.olhar .ex-pt.mira i { opacity: 1; animation: none; }
+#mg.olhar .ex-pt.mira span { opacity: 1; }
+#mg.olhar .ex-pt.visto i { opacity: .4; }
+@keyframes exBrilho { 0%, 100% { opacity: .1; } 50% { opacity: .3; } }
+/* v11 · fechar os olhos antes do Capítulo III */
+body.dorme::after { content: ''; position: fixed; inset: 0; z-index: 9999; background: #000; animation: dorme 1.5s ease-in forwards; pointer-events: none; }
+@keyframes dorme { from { opacity: 0; } to { opacity: 1; } }

diff --git a/index.html b/index.html
@@ -77,9 +77,9 @@
     <h2 id="rsH"></h2>
     <p id="rsFrase" class="rsfrase"></p>
     <ul id="rsRel"></ul>
-    <div id="rsPontos" class="rspontos"></div>
     <h3 id="rsSuas"></h3>
     <ul id="rsEsc"></ul>
+    <div id="rsPontos" class="rspontos"></div>
     <div class="rsbtns"><a id="rsProx" class="cta" href="#">Capítulo III →</a><button id="rsReler" class="ghost"></button></div>
   </div>
 </section>

diff --git a/NOTAS_CAP2.md b/NOTAS_CAP2.md
@@ -187,3 +187,17 @@ Recomendo **não misturar**. O Cap. 3 é outro ponto de vista (o Cavaleiro) e fu
 - Os únicos arquivos que dão 404 são os da lista `MIDIAS_PENDENTES.md`. É esperado.
 - Estatísticas ("X% fizeram o mesmo") usam o mesmo Supabase do Cap. 1, com `capitulo = 'cap02'`. O sandbox não acessa o Supabase; esse teste é seu.
 - Quando o Cap. 2 novo estiver no ar, atualize o link de "próximo capítulo" no Cap. 1 (hoje aponta para `the4willschapter2`).
+
+## v11 (polimento pós-auditoria, 08/10)
+- Sprites novos de Laura no duelo (8 poses; "cansada" usa a pose de cabeça baixa).
+- Peso: mentir = batida fora do compasso; aliviar = fôlego solto (sem "plim" nem escurecer a tela). Frase final fala do corpo, não conta mentiras.
+- a02: "E de novo estou aqui" (sai a terceira "milésima vez"; texto sem dublagem).
+- a08: "E se outro vencer?" agora é escolha visível (perguntar / deixar que ela vá).
+- Olhar: pontos quase invisíveis; aparecem quando o cursor passa perto. No celular: 1º toque mira, 2º olha.
+- Mesa de Gideon: Laura já sabe quem é o oficial do Registro; a carta dá o dia (nove dias) e o lugar (a alfaiataria). c08 conta os nove dias.
+- b04: Justine responde ao estado das mãos (sangue / marcas das unhas / mãos abertas); todos recebem o lenço.
+- Esconderijo: cartão curto, regra na voz de Laura; uma passada só do vídeo em câmera lenta (22 s), a luz chega quando a tocha aparece; quem não aguenta é Laura.
+- c03: o lenço com o J vem antes do aquecimento ("Ela disse" volta a ser Dolores).
+- c08: lenço manchado (se guardou) ou bolha aberta (se aparou sem lenço).
+- Duelo: "Baixar a espada"; frase do peito sem enunciar regra; baixar a espada pontua como o toque.
+- Tela final: pontos depois das escolhas; botão "Fechar os olhos · Capítulo III" escurece a tela antes de trocar.
